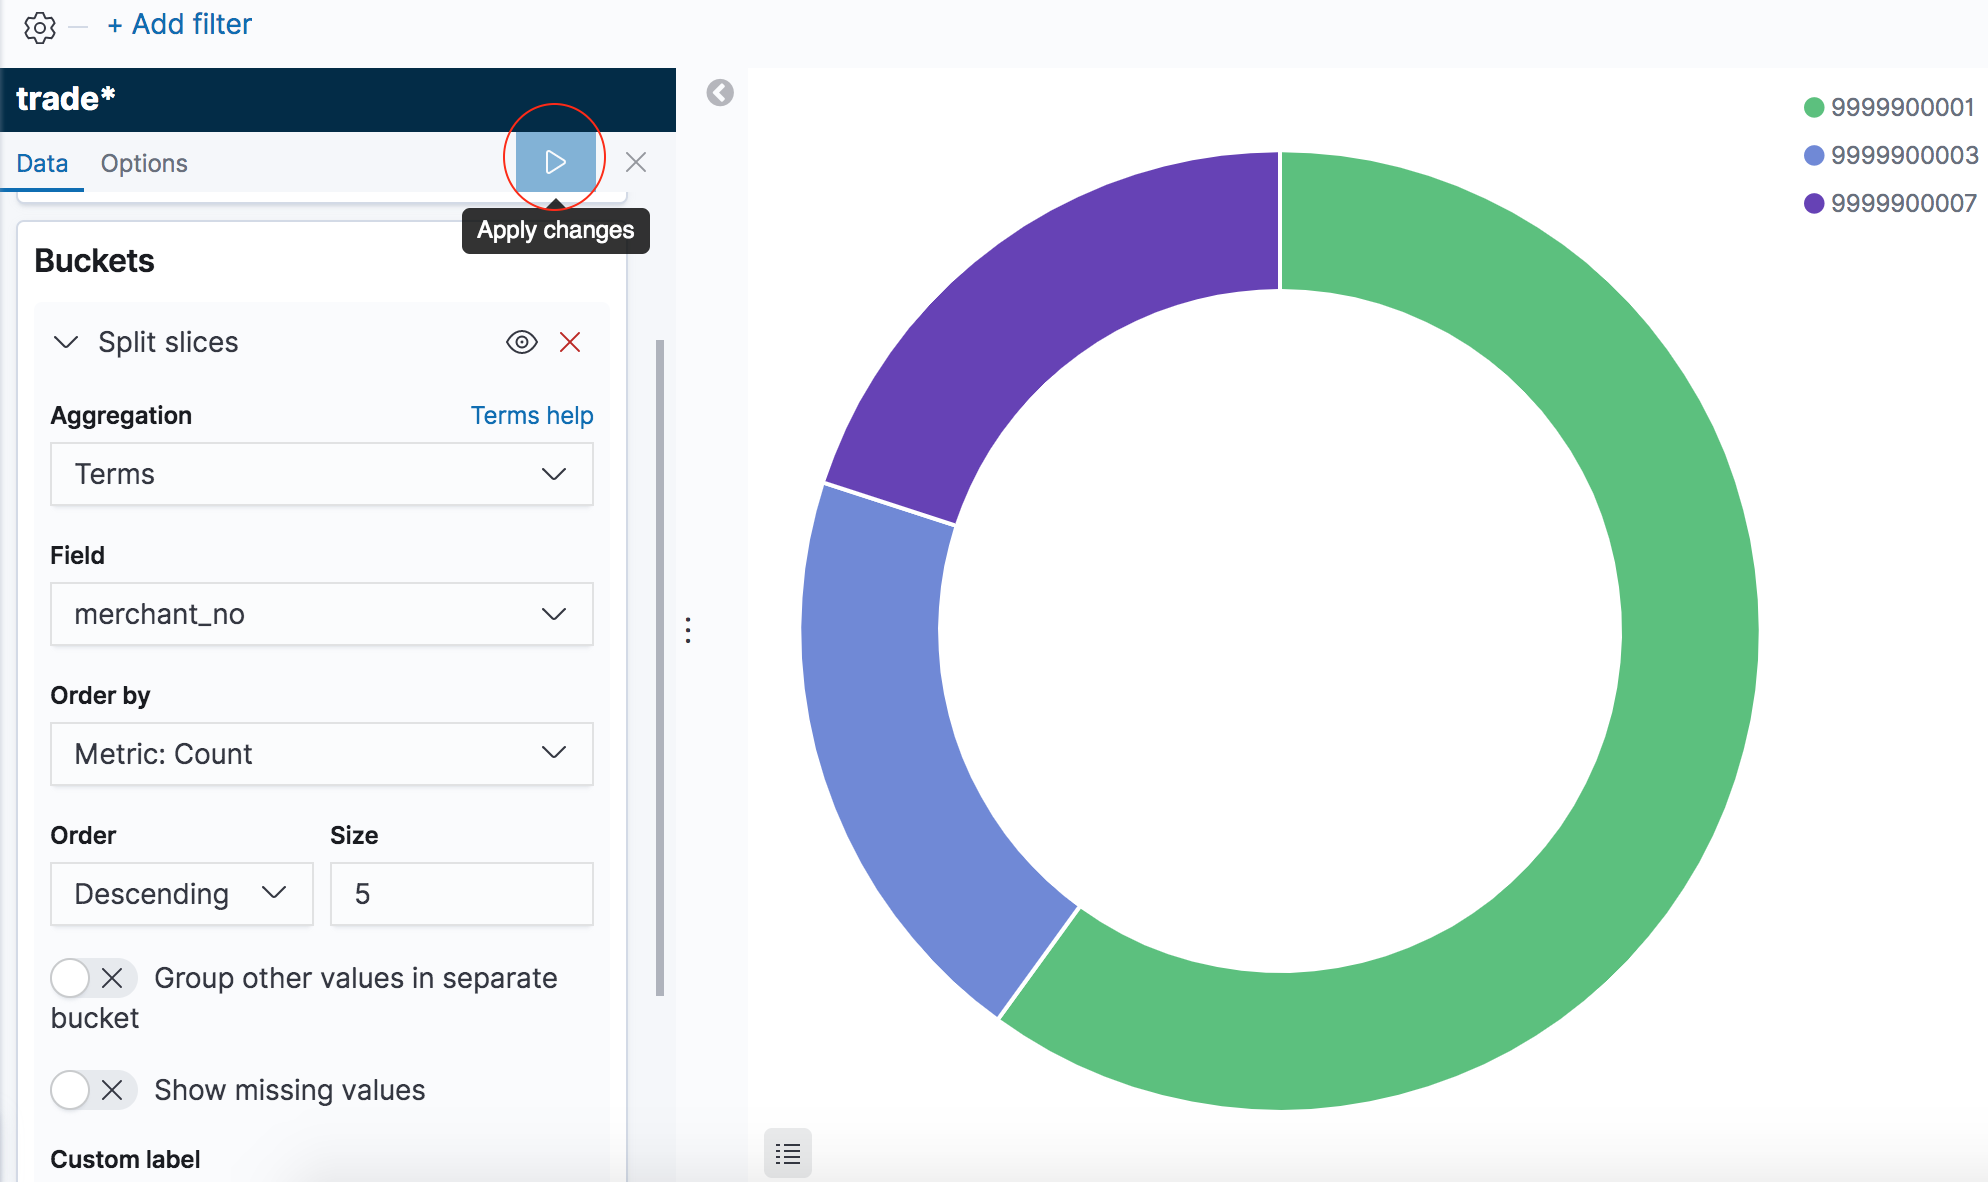
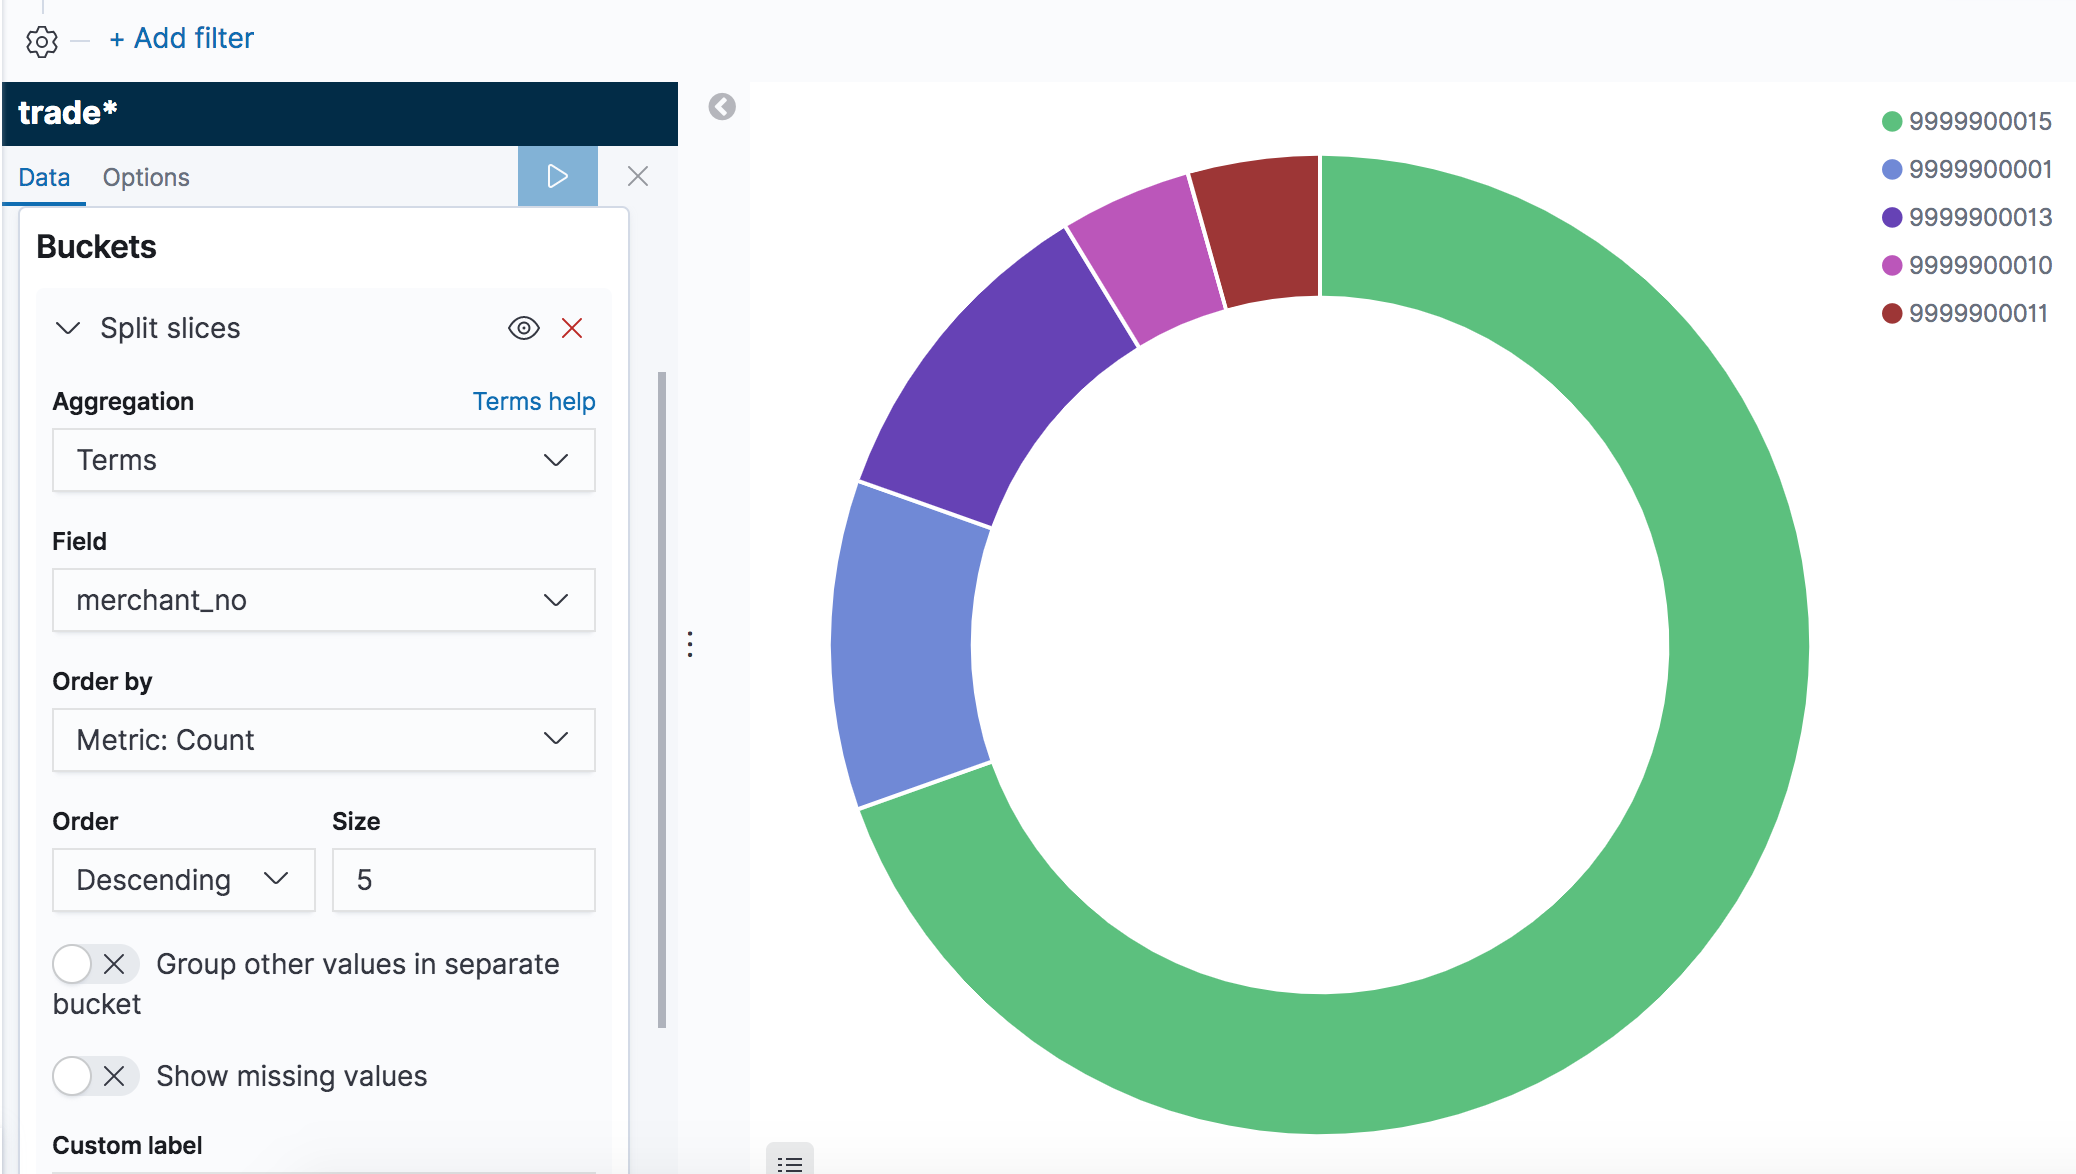
可视化

diff --git a/_posts/2019-12-06-es-data-analysis-20191206.md b/_posts/2019-12-06-es-data-analysis-20191206.md
@@ -2,7 +2,7 @@
 layout: post
 title: Elasticsearch数据分析
 categories: 大数据之elasticsearch 大数据之kibana
-tags: java Elasticsearch ELK Kibana 数据分析 索引 大数据 可视化分析 搜索 统计 概率 最大值 最小值 方差 标准差 中位数 搜索引擎 数据库索引 数据库 SQL 聚合分析 数据库范式 数据建模 数据模型 读写性能 备库 Hadoop Spark 交易系统 营销系统 关系型数据库 Bucket Metric Pipeline Matrix 
+tags: java Elasticsearch ELK Kibana 数据分析 索引 大数据 可视化分析 搜索 统计 概率 最大值 最小值 方差 标准差 中位数 搜索引擎 数据库索引 数据库 SQL 聚合分析 数据库范式 数据建模 数据模型 读写性能 备库 Hadoop Spark 交易系统 营销系统 关系型数据库 Bucket Metric Pipeline Matrix 时间序列 
 ---
 
 比如对于一个交易系统，你可能要统计这些维度的数据
@@ -249,6 +249,8 @@ GET trade/_search
 
 ELK 中的Kibana 的一大功能就是处理Elasticsearch 数据的可视化
 
+**饼状图**
+
 比如在Kibana 中统计不同商户的交易占比，比如以饼图（Pie）的方式展示
 
 ![](../media/image/2019-12-06/05.png)
@@ -261,17 +263,49 @@ add 一个Bucket，选择Split slices，Aggregation 选择Term，Field 选择mer
 
 ![](../media/image/2019-12-06/07.png)
 
-可以看到9999900001、9999900003、9999900007 这三个商户的交易占比！
+可以看到9999900001、9999900003、9999900007…… 这几个商户的交易占比！
 
->更多的可视化方案这里也不赘述了！
+**交易趋势图**
+
+正常应该使用Timelion 绘制交易量的曲线图，这样指定timefield 之后，就会按照指定的timefield 字段展示时间序列，但在我设计的index mapping 中trade_date、trade_time 都是integer 类型的，目前不知道怎么转？Kibana 的Timelion 是否支持将原来指定的integer 或者string 的时间转成date？其实更好的方法就是在设计交易index 的时候，想到要展示交易时序，所以最开始就应该设计一个date 类型的field
+
+既然Timelion 不可以用，或者说现在我不知道改怎么做使其可以用，那么就换一种可视化的方案来“模拟”出以时间维度统计交易请求曲线的效果
+
+选择Line 类型的图表，X 轴选择trade_time，显然出现跨天的情况就出现统计的错误了，这里为了展示效果暂时不纠结
+
+Y 轴就选择Count（聚合返回所选索引模式中元素的原始计数）
+
+![](../media/image/2019-12-06/08.png)
+
+X 轴就选择trade\_time 列，在Buckets 中Add X-axis，按照下面的填写
+
+![](../media/image/2019-12-06/09.png)
+
+最后得到这样的效果
+
+![](../media/image/2019-12-06/10.png)
+
+显然这种将就的方案没有Timelion 的效果好
+
+Kibana 还支持更多的可视化统计效果！更多的可视化方案这里也不赘述了！
+
+![](../media/image/2019-12-06/11.png)
 
 ## 参考资料
 
 * [数据库是如何工作的？](http://www.xumenger.com/how-databases-work-20180415/)
 * [es查询，聚合、平均值、值范围、cardinality去重查询](https://blog.csdn.net/sxf_123456/article/details/78195829)
 * [Elasticsearch Reference](https://www.elastic.co/guide/en/elasticsearch/reference/current/index.html)
+* [Elasticsearch用户手册](https://www.elastic.co/guide/cn/kibana/current/index.html)
 * [Elastic Stack and Product Documentation](https://www.elastic.co/guide/index.html)
 * [Elasticsearch for Apache Hadoop and Spark [7.5] ](https://www.elastic.co/guide/en/elasticsearch/hadoop/current/index.html)
 * [Elasticsearch映射机制](http://www.xumenger.com/es-mapping-20191204/)
 * [用ELK分析ELK](http://www.xumenger.com/elk-elk-20191124/)
 * [搭建ELK环境](http://www.xumenger.com/elk-20191123/)
+* [kibana-1：使用timeline构建时间序列图](https://cloud.tencent.com/developer/article/1456376)
+* [Kibana插件Timelion介绍 自定义分析图表](https://www.iteye.com/blog/corejava2008-2307052)
+* [Kibana 用户指南（Timelion入门）](https://segmentfault.com/a/1190000016679290)
+* [第十四章·Kibana深入-Timelion画图实现系统监控](https://www.cnblogs.com/Forever-x/p/11325113.html)
+* [微服务框架（二十五）Kibana 可视化图表及 Timelion 插件](https://blog.csdn.net/why_still_confused/article/details/88856468)
+* [Kibana或Grafana，时间序列可视化如何选择？](https://msd.misuland.com/pd/13297395137592753)
+* [Kibana：数据分析的可视化利器](http://www.sohu.com/a/212893699_465959)
